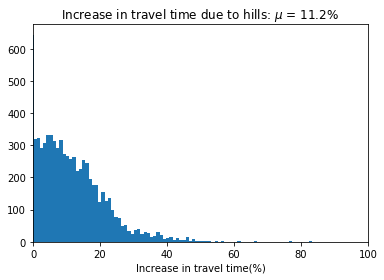
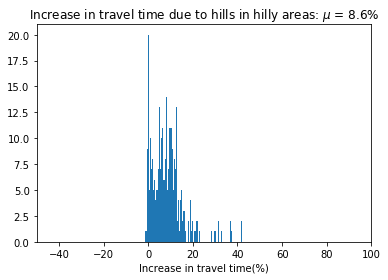
Trying a new custom sidebar. Editing impact of hills.

Changed region(s): [[0.0, 0.0286, 1.0, 0.9714], [0.7188, 0.8857, 0.875, 0.9429]]

diff --git a/_posts/2019-02-19-Impact-of-hills-on-walking-to-playgrounds-in-Wellington.md b/_posts/2019-02-19-Impact-of-hills-on-walking-to-playgrounds-in-Wellington.md
@@ -4,13 +4,7 @@ toc: true
 toc_sticky: true
 toc_label: "Table of Contents"
 sidebar:
-  title: "Sample Title"
-  nav: sidebar-sample
-sidebar-sample:
-  - title: "Other Posts in this series"
-    children:
-      - title: "Introduction"
-        url: /Walking-to-playgrounds-in-Wellington/
+  nav: "acc_series"
 ---
 
 In the [previous posts](https://shriv.github.io/Playgrounds-vs-pubs/), we calculated accessibility in terms of distance. Distance is an excellent metric for driving or walking on flat land. For short travels by car or walking on flat land, distance can be directly converted to travel time - since most people have an intuitive understanding of their average driving speeds (50 km/h for residential roads in New Zealand) or their approximate walking speed on flat land (usually around 5 km / h for a fit adult as given in [Section 3.4 in NZTA pedestrian planning and design guide](https://www.nzta.govt.nz/assets/resources/pedestrian-planning-guide/docs/pedestrian-planning-guide.pdf)). Hills are not an issue for drivers provided road quality and safety are no different to flat land. But hills do impact travel time for pedestrians; which in turn impacts accessibility.
@@ -166,9 +160,27 @@ We can only start seeing changes due to the hill when we consider a differential
 |![png](../images/2019-02-19-Impact-of-hills-on-walking-to-playgrounds-in-Wellington/output_37_0.png) | ![png](../images/2019-02-19-Impact-of-hills-on-walking-to-playgrounds-in-Wellington/output_38_0.png)|
 
 
-It's worth noting that while accessibility to playgrounds is worse due to hills, the total travel time in hilly areas only increases by 11% on average. Note, here we are are considering a hilly area as one where the absolute average gradient is more 5%.
+It's worth noting that while accessibility to playgrounds is worse due to hills, the total travel time in hilly areas only increases by 9% on average. Note, here we are are considering a hilly nodes as those where the absolute average nearby gradient is more 5%. Sample code below.
 
-![png](../images/2019-02-19-Impact-of-hills-on-walking-to-playgrounds-in-Wellington/output_50_0.png)
+```python
+# Extract an undirected graph
+G_undir = G.to_undirected()
+nodes_gdfs, nodes_gdfs = ox.graph_to_gdfs(G_undir)
+# Get local average gradient by node  
+u_grades = (edges_gdfs
+           .groupby('u')
+           .agg({'abs_grade': 'mean'})
+           .reset_index()
+           .rename({'u': 'id'}, axis=1))
+# Repeat for v
+...
+# Join u_grades and v_grades and drop duplicates
+...
+```
+
+| Hilly Nodes | Flat Nodes |
+|:---: |:---:|
+|![png](../images/2019-02-19-Impact-of-hills-on-walking-to-playgrounds-in-Wellington/output_50_0.png)|![png](../images/2019-02-19-Impact-of-hills-on-walking-to-playgrounds-in-Wellington/output_55_0.png)
 
 
 The impact of Wellington's topography is also seen in the availability of council playground options. In a future post, it would be interesting to see the choices available per capita - since flatter suburbs are also more likely to have higher population density.
